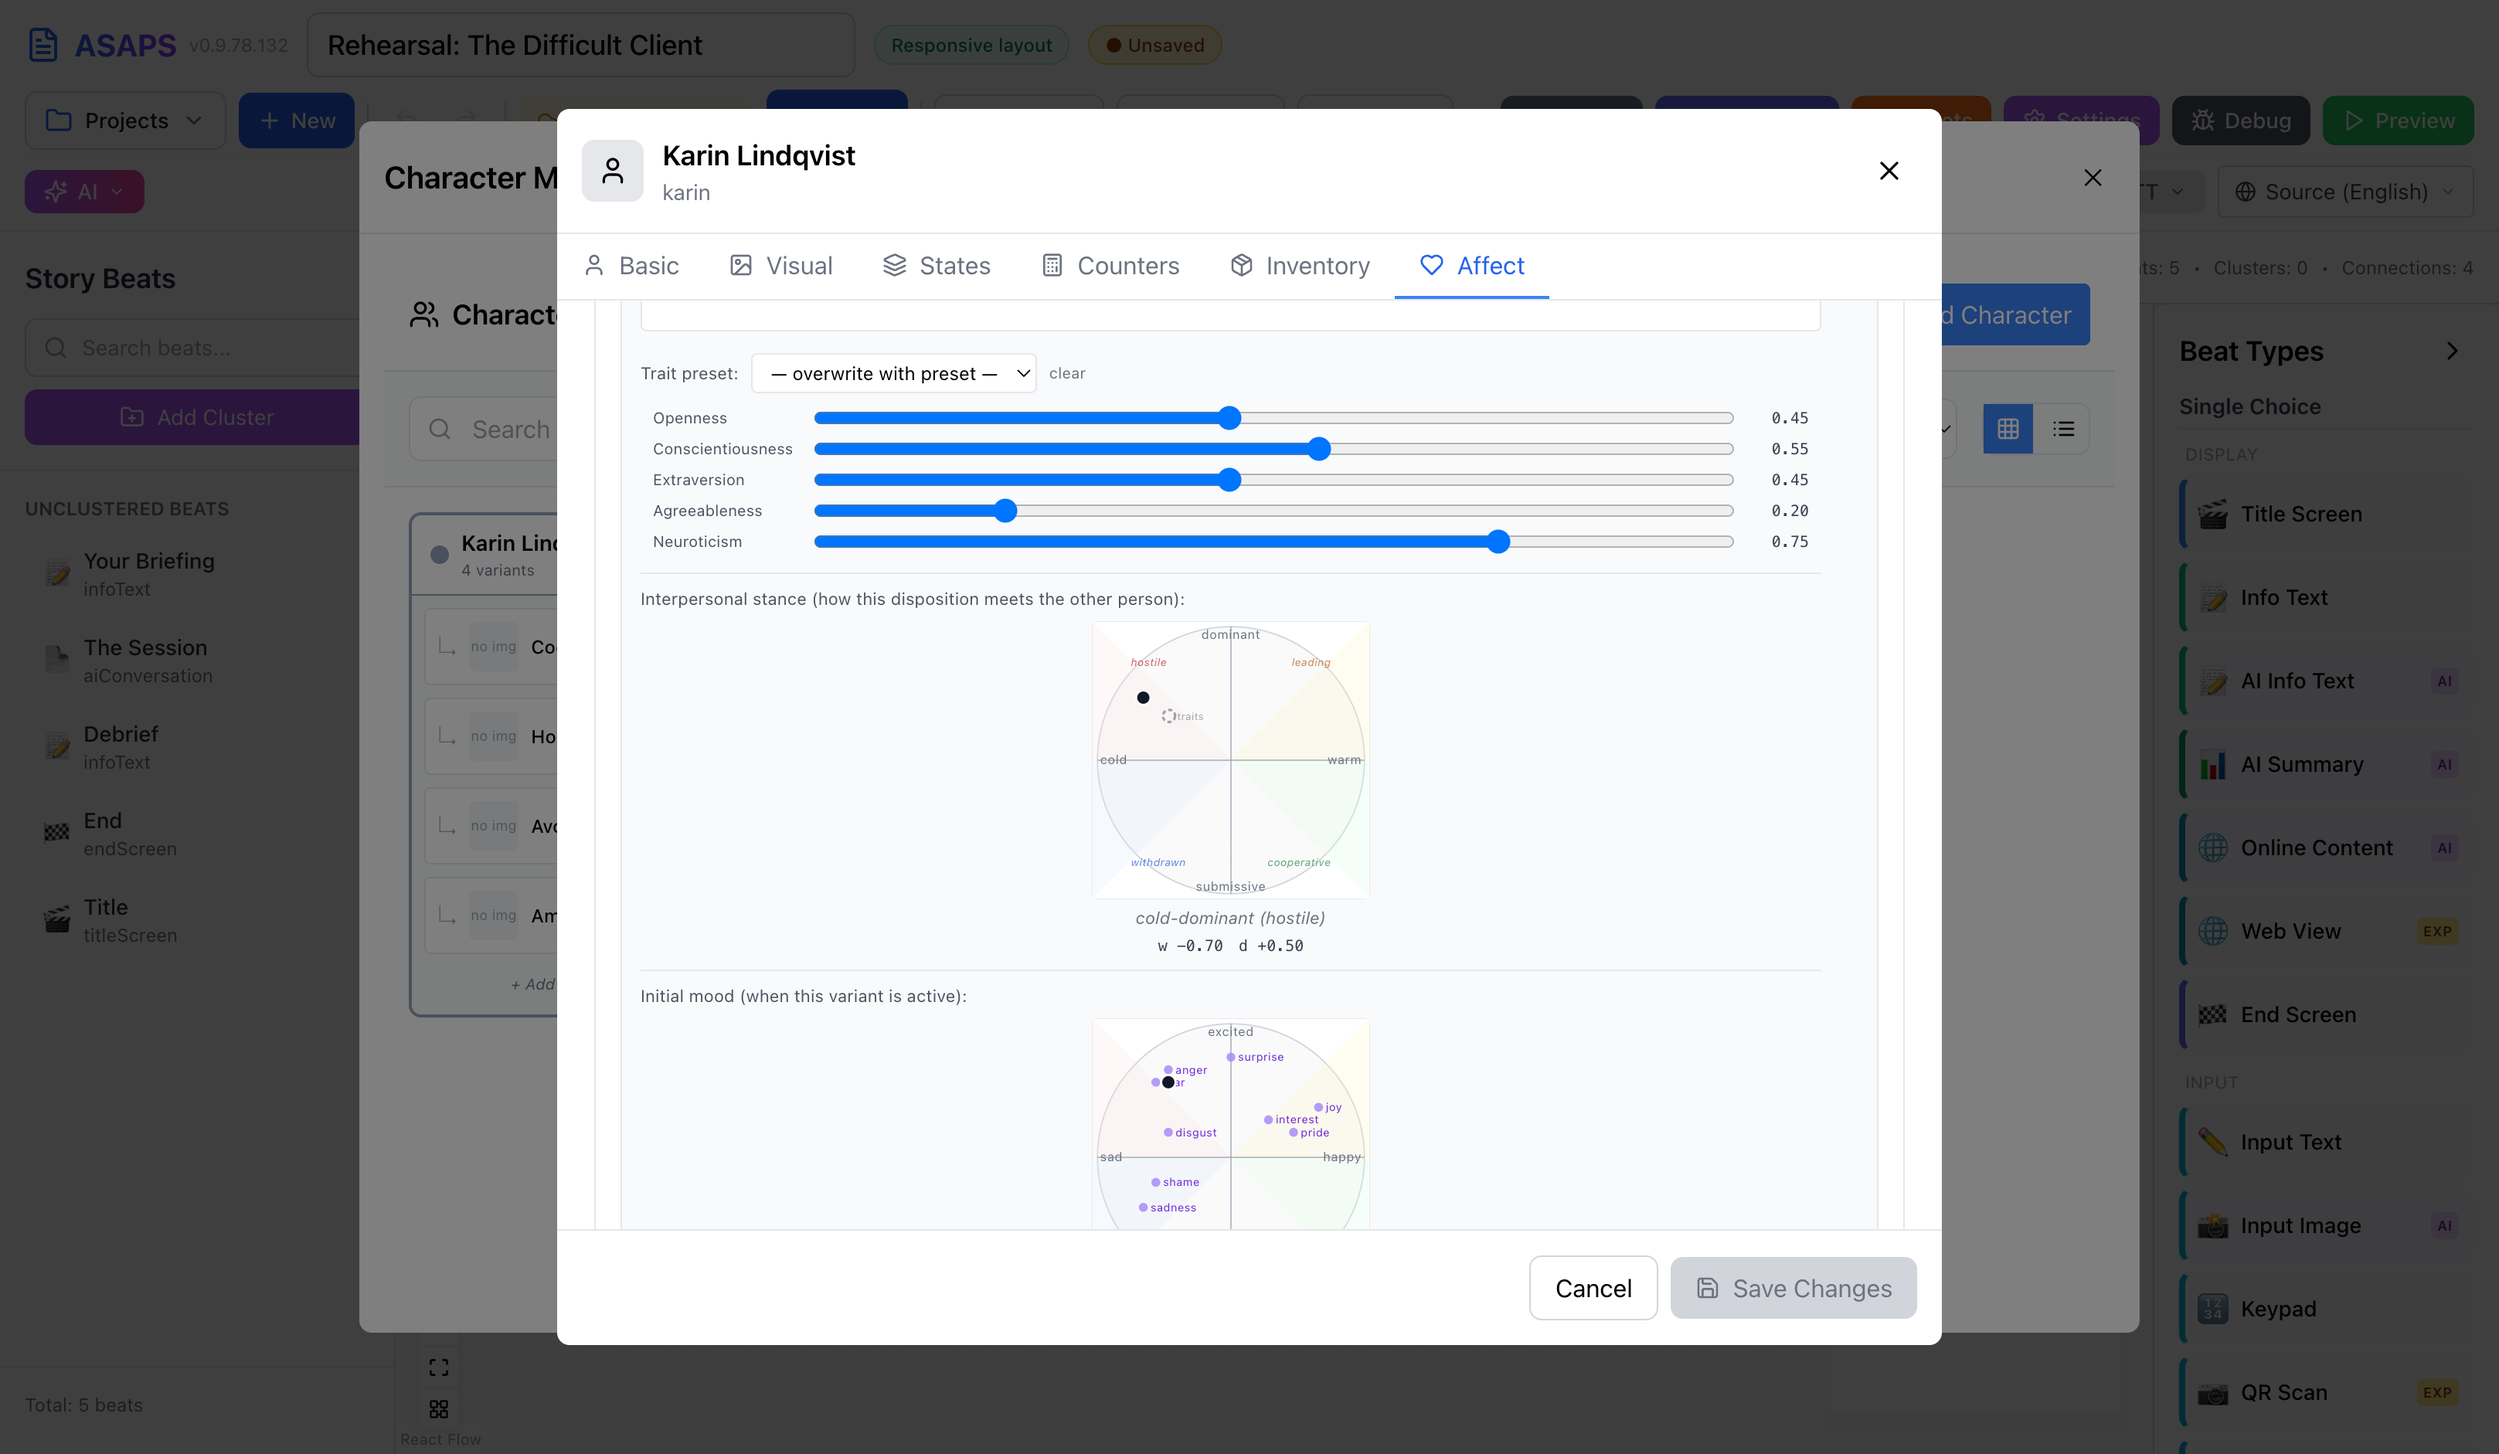
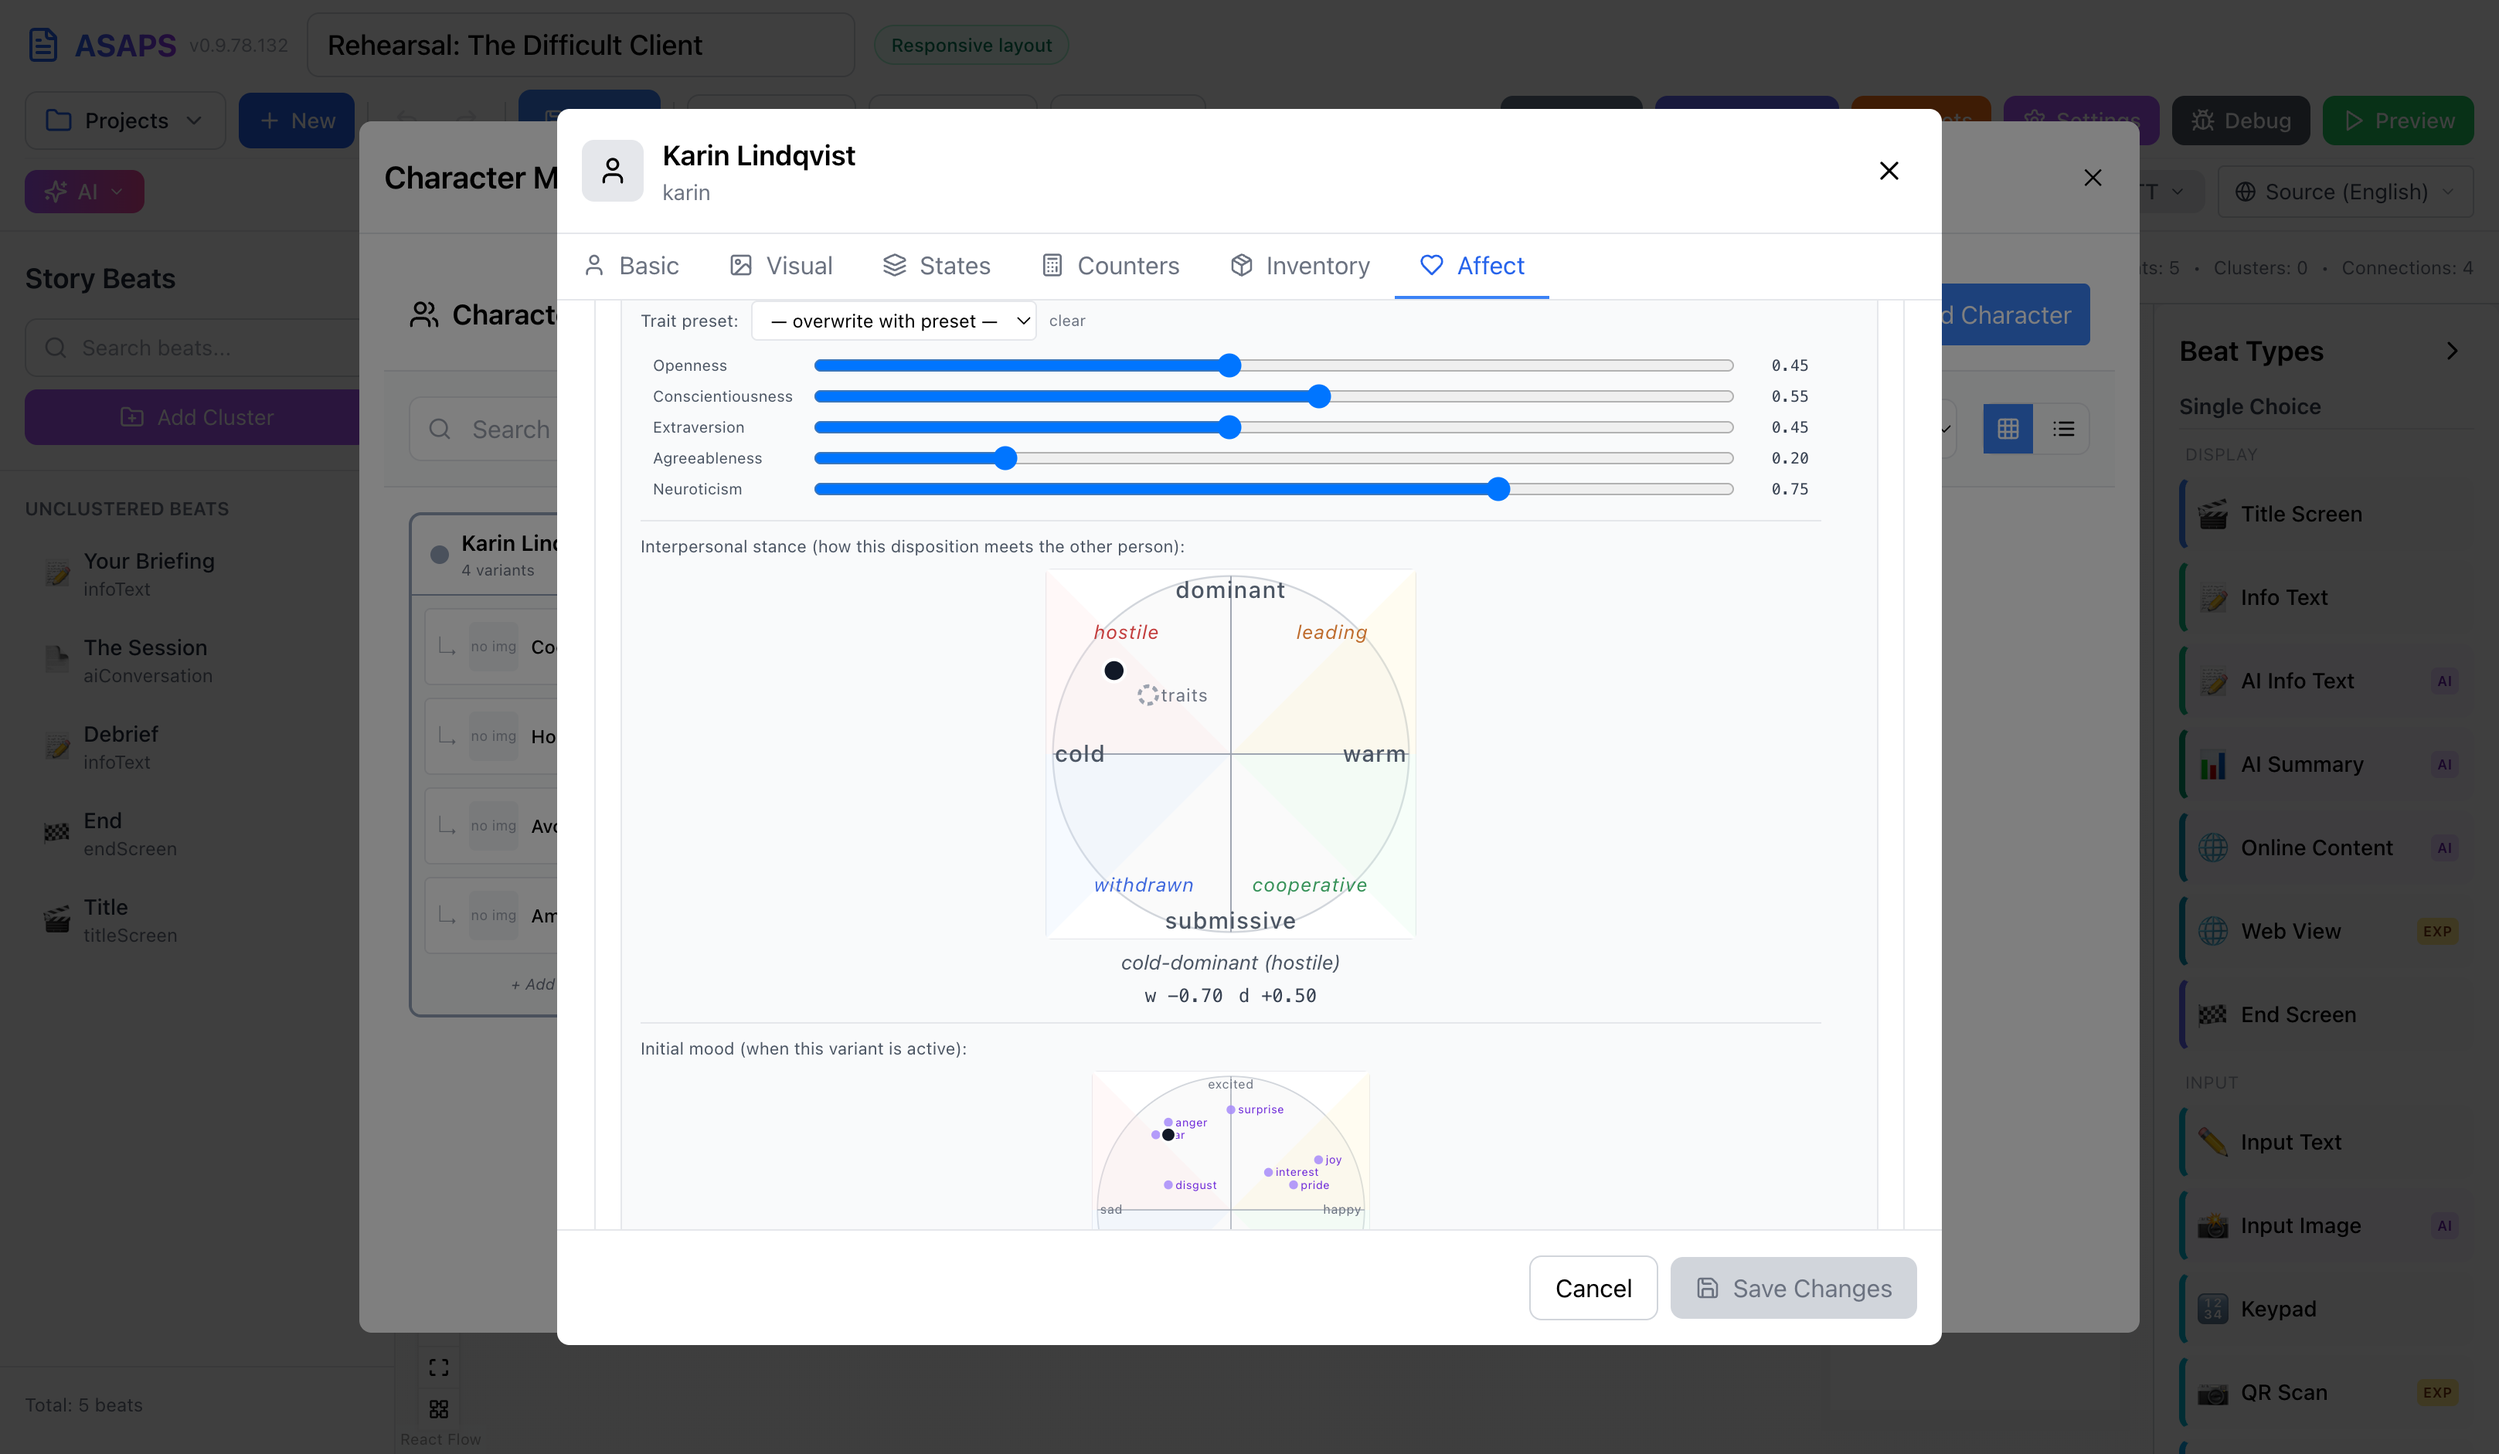
fix: enlarge StancePad and its labels for legibility
Pad default 180→220px (editor call sites 240px, helper preview cards
130→180px); axis words 4.5→6.2 with medium weight and darker fill,
octant labels 3.8→5.2 at higher opacity, traits ghost label 3.6→4.8,
dots slightly larger, subtitle/readout HTML text bumped. User Guide
screenshots 49 + 51 re-captured with the larger pad.

diff --git a/packages/builder/src/components/characters/StancePad.tsx b/packages/builder/src/components/characters/StancePad.tsx
@@ -29,7 +29,7 @@ export interface StancePadProps {
   /** True when the dot merely mirrors the traits (no authored stance yet) —
    *  rendered hollow so "derived" reads differently from "authored". */
   derived?: boolean;
-  /** Pixel size (square). Default 180. */
+  /** Pixel size (square). Default 220. */
   size?: number;
   title?: string;
   subtitle?: string;
@@ -40,7 +40,7 @@ export interface StancePadProps {
 
 export const StancePad: React.FC<StancePadProps> = ({
   warmth, dominance, onChange, traitsPosition, derived = false,
-  size = 180, title, subtitle, showLabels = true, testId,
+  size = 220, title, subtitle, showLabels = true, testId,
 }) => {
   const interactive = typeof onChange === 'function';
   const padRef = useRef<SVGSVGElement | null>(null);
@@ -123,31 +123,31 @@ export const StancePad: React.FC<StancePadProps> = ({
         {showLabels && (
           <>
             {/* Axis words at the cardinals */}
-            <text x={50} y={6.5} textAnchor="middle" fontSize={4.5} fill="#6b7280">dominant</text>
-            <text x={50} y={97}  textAnchor="middle" fontSize={4.5} fill="#6b7280">submissive</text>
-            <text x={3}  y={51.5} textAnchor="start" fontSize={4.5} fill="#6b7280">cold</text>
-            <text x={97} y={51.5} textAnchor="end"   fontSize={4.5} fill="#6b7280">warm</text>
+            <text x={50} y={8}   textAnchor="middle" fontSize={6.2} fontWeight={500} fill="#4b5563">dominant</text>
+            <text x={50} y={97}  textAnchor="middle" fontSize={6.2} fontWeight={500} fill="#4b5563">submissive</text>
+            <text x={2.5} y={52} textAnchor="start"  fontSize={6.2} fontWeight={500} fill="#4b5563">cold</text>
+            <text x={97.5} y={52} textAnchor="end"   fontSize={6.2} fontWeight={500} fill="#4b5563">warm</text>
             {/* Leary octant labels in the quadrant corners */}
-            <text x={14} y={16} textAnchor="start" fontSize={3.8} fill="#b91c1c" opacity={0.7} fontStyle="italic">hostile</text>
-            <text x={86} y={16} textAnchor="end"   fontSize={3.8} fill="#b45309" opacity={0.7} fontStyle="italic">leading</text>
-            <text x={14} y={88} textAnchor="start" fontSize={3.8} fill="#1d4ed8" opacity={0.7} fontStyle="italic">withdrawn</text>
-            <text x={86} y={88} textAnchor="end"   fontSize={3.8} fill="#15803d" opacity={0.7} fontStyle="italic">cooperative</text>
+            <text x={13} y={19} textAnchor="start" fontSize={5.2} fill="#b91c1c" opacity={0.85} fontStyle="italic">hostile</text>
+            <text x={87} y={19} textAnchor="end"   fontSize={5.2} fill="#b45309" opacity={0.85} fontStyle="italic">leading</text>
+            <text x={13} y={87} textAnchor="start" fontSize={5.2} fill="#1d4ed8" opacity={0.85} fontStyle="italic">withdrawn</text>
+            <text x={87} y={87} textAnchor="end"   fontSize={5.2} fill="#15803d" opacity={0.85} fontStyle="italic">cooperative</text>
           </>
         )}
 
         {/* Trait-derived ghost marker (hollow) */}
         {showTraitsDot && traitsDot && (
           <g>
-            <circle cx={traitsDot.x} cy={traitsDot.y} r={2.2} fill="none" stroke="#9ca3af" strokeWidth={0.9} strokeDasharray="1.5 1" />
-            <text x={traitsDot.x + 3} y={traitsDot.y + 1.4} fontSize={3.6} fill="#9ca3af" style={{ pointerEvents: 'none' }}>traits</text>
+            <circle cx={traitsDot.x} cy={traitsDot.y} r={2.4} fill="none" stroke="#9ca3af" strokeWidth={1} strokeDasharray="1.5 1" />
+            <text x={traitsDot.x + 3.4} y={traitsDot.y + 1.7} fontSize={4.8} fill="#6b7280" style={{ pointerEvents: 'none' }}>traits</text>
           </g>
         )}
 
         {/* Stance dot — hollow when merely derived from traits, solid when authored */}
         {derived ? (
-          <circle cx={dot.x} cy={dot.y} r={2.6} fill="#ffffff" stroke="#111827" strokeWidth={1} strokeDasharray="2 1" />
+          <circle cx={dot.x} cy={dot.y} r={3} fill="#ffffff" stroke="#111827" strokeWidth={1.1} strokeDasharray="2 1" />
         ) : (
-          <circle cx={dot.x} cy={dot.y} r={2.6} fill="#111827" stroke="#ffffff" strokeWidth={0.8} />
+          <circle cx={dot.x} cy={dot.y} r={3} fill="#111827" stroke="#ffffff" strokeWidth={0.9} />
         )}
       </svg>
       {subtitle && <div style={subtitleStyle}>{subtitle}</div>}
@@ -166,6 +166,6 @@ function clampUnit(v: number): number {
   return v === 0 ? 0 : v;
 }
 
-const titleStyle: React.CSSProperties = { fontSize: 11, color: '#6b7280', marginBottom: 4, textTransform: 'uppercase', letterSpacing: 0.4 };
-const subtitleStyle: React.CSSProperties = { fontSize: 11, color: '#6b7280', marginTop: 4, fontStyle: 'italic', textAlign: 'center' };
-const readoutStyle: React.CSSProperties = { fontSize: 10, fontFamily: 'monospace', color: '#374151', marginTop: 2 };
+const titleStyle: React.CSSProperties = { fontSize: 12, color: '#6b7280', marginBottom: 4, textTransform: 'uppercase', letterSpacing: 0.4 };
+const subtitleStyle: React.CSSProperties = { fontSize: 13, color: '#4b5563', marginTop: 5, fontStyle: 'italic', textAlign: 'center' };
+const readoutStyle: React.CSSProperties = { fontSize: 12, fontFamily: 'monospace', color: '#374151', marginTop: 3 };

diff --git a/packages/builder/src/components/characters/CharacterEditor.tsx b/packages/builder/src/components/characters/CharacterEditor.tsx
@@ -2314,7 +2314,7 @@ export const CharacterEditor: React.FC<CharacterEditorProps> = ({
                       <StancePad
                         warmth={pos.warmth}
                         dominance={pos.dominance}
-                        size={180}
+                        size={240}
                         onChange={(stance) => {
                           const ea = stanceToBigFive(stance);
                           setEditedCharacter({
@@ -2819,7 +2819,7 @@ export const CharacterEditor: React.FC<CharacterEditorProps> = ({
                                 dominance={shown.dominance}
                                 derived={!explicit}
                                 traitsPosition={explicit ? traitsPos : null}
-                                size={180}
+                                size={240}
                                 onChange={(stance) => {
                                   const derivedEA = applyStanceToTraits(
                                     editedCharacter.traits || {},

diff --git a/packages/builder/src/components/characters/CharacterDevelopmentDialog.tsx b/packages/builder/src/components/characters/CharacterDevelopmentDialog.tsx
@@ -344,7 +344,7 @@ export const CharacterDevelopmentDialog: React.FC<CharacterDevelopmentDialogProp
             warmth={opts.stance.value.warmth}
             dominance={opts.stance.value.dominance}
             derived={opts.stance.derived}
-            size={130}
+            size={180}
             onChange={busy === null ? opts.stance.onChange : undefined}
             subtitle={describeStance(opts.stance.value)}
           />
